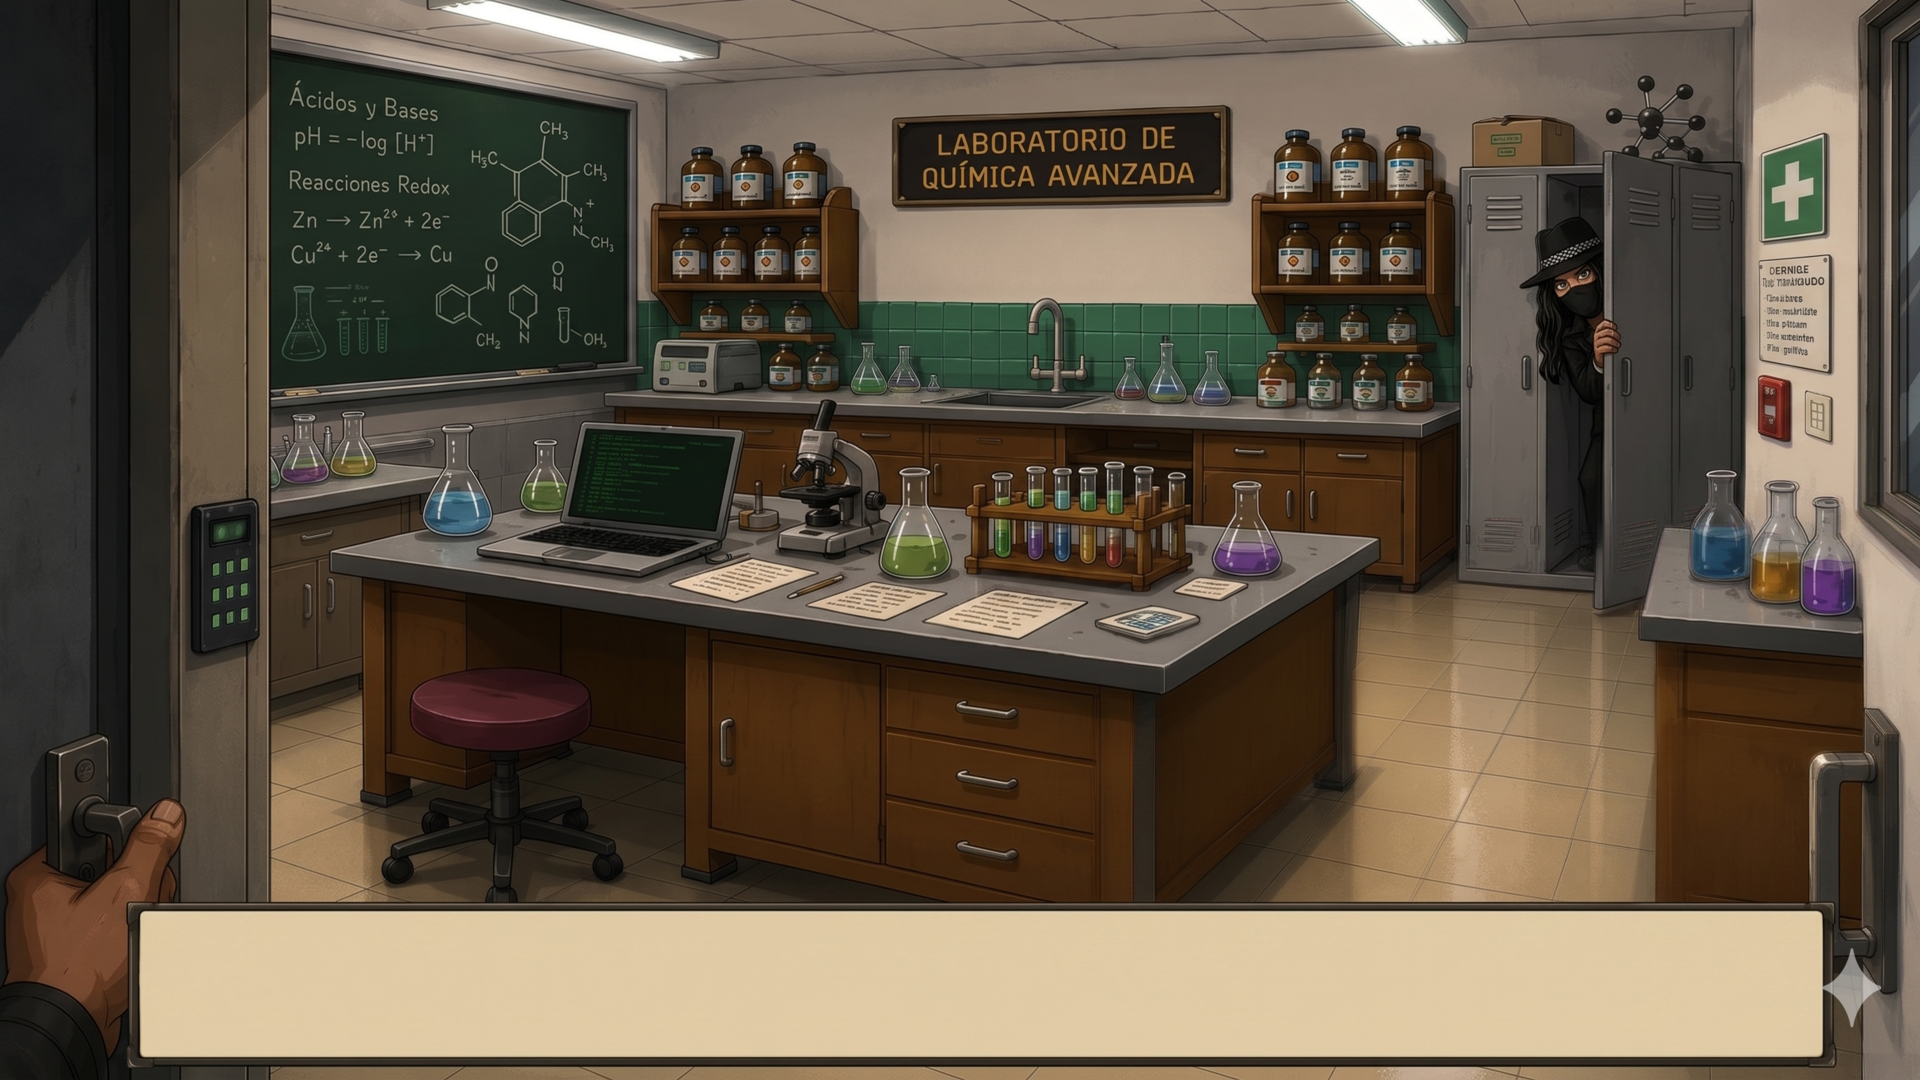
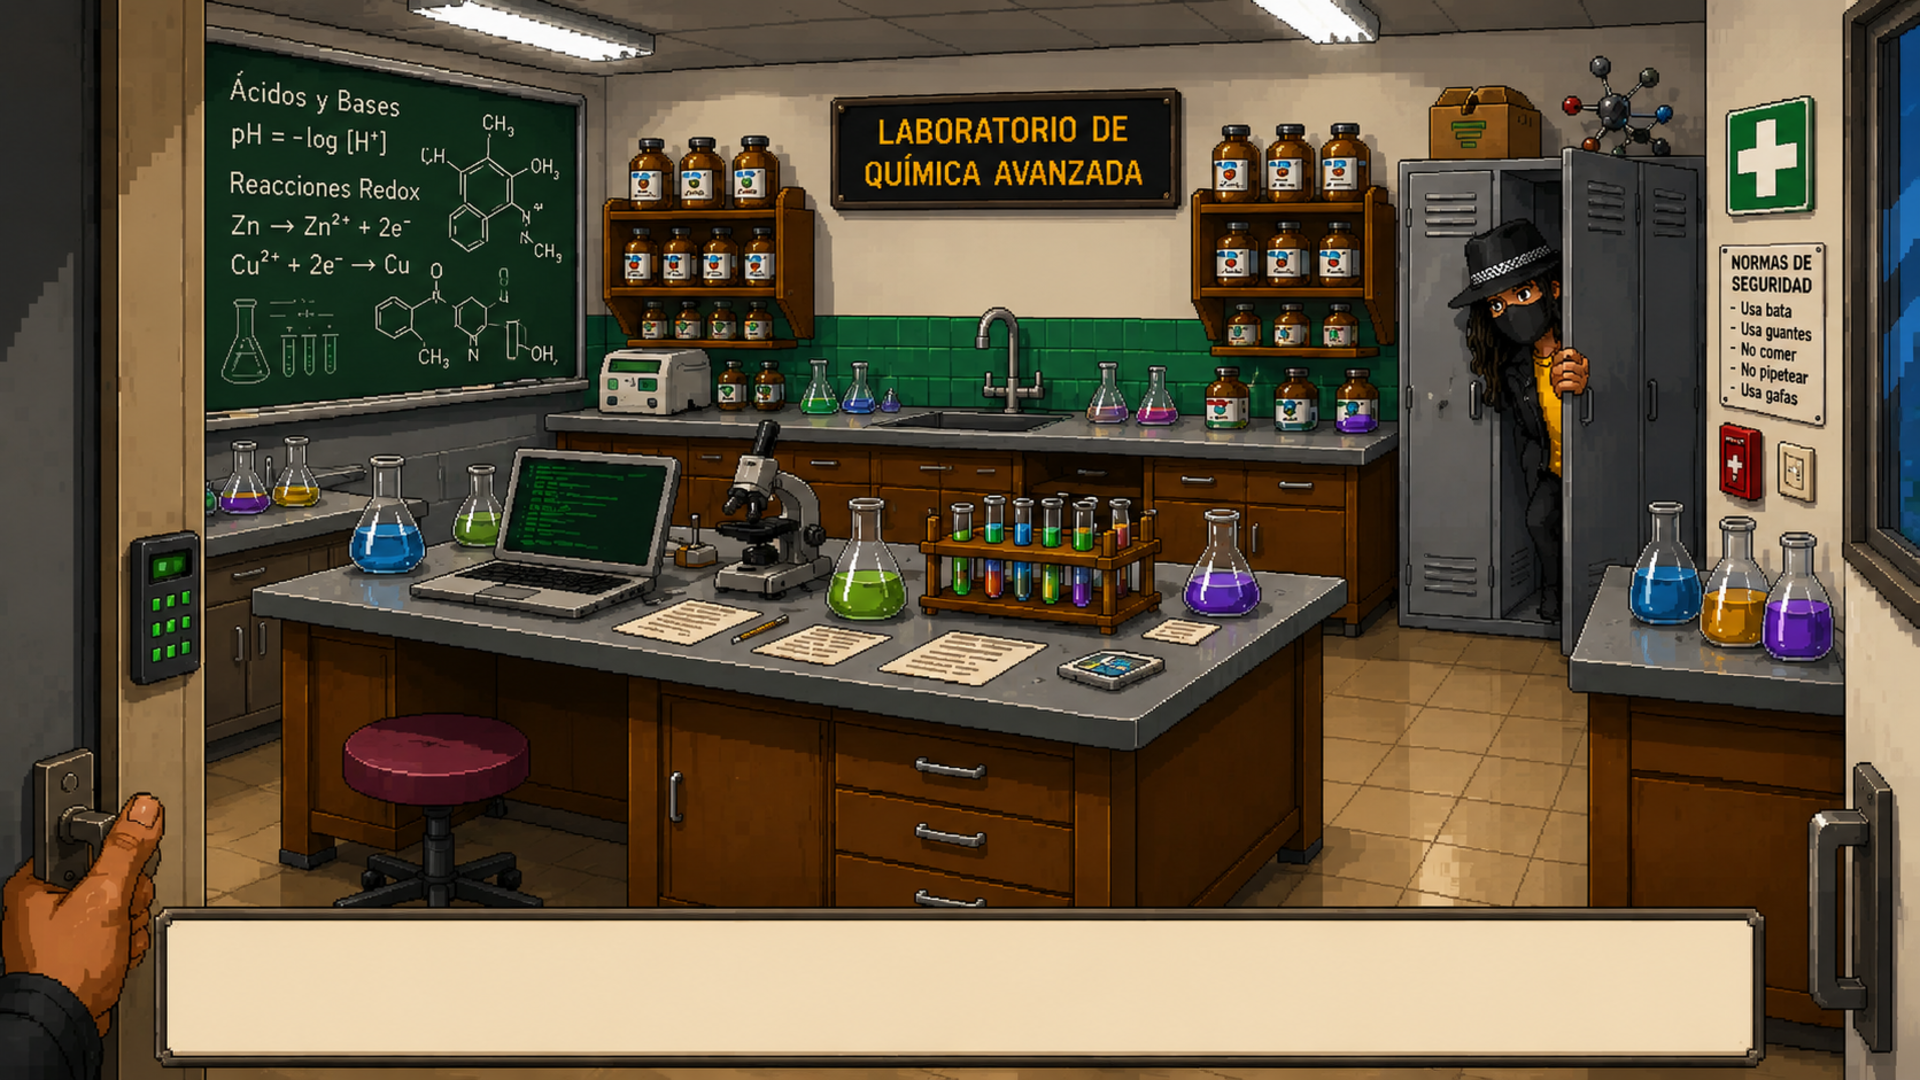
Update campaign 6/9

diff --git a/PolitecnicoOpenWorld/app/src/main/java/ovh/gabrielhuav/pow/features/main_menu/ui/StoryIntroScreen.kt b/PolitecnicoOpenWorld/app/src/main/java/ovh/gabrielhuav/pow/features/main_menu/ui/StoryIntroScreen.kt
@@ -167,6 +167,7 @@ fun StoryIntroScreen(
             "IntroPOW5.webp" -> {
                 soundManager.stopAllStorySounds()
                 soundManager.playStoryRunning(loop = true)
+                soundManager.playPuerquito()
             }
             "IntroPOW6.webp" -> {
                 soundManager.stopAllStorySounds()
@@ -212,12 +213,15 @@ fun StoryIntroScreen(
     var panelOffX by remember { mutableFloatStateOf(0f) }
     var panelOffY by remember { mutableFloatStateOf(0f) }
 
-    val image = remember(panel.assetPath) {
-        try {
-            context.assets.open(panel.assetPath).use {
-                android.graphics.BitmapFactory.decodeStream(it)?.asImageBitmap()
-            }
-        } catch (_: Exception) { null }
+    // SKIN: ciertos paneles del cómic (IntroPOW9/10/11/15) cambian según la skin elegida en
+    // "Cambiar Skin": por defecto IntroPOW9.webp (Lázaro/hombre); con la mujer IntroPOW9Girl.webp;
+    // con el robot IntroPOW9Robot.webp. El resto de paneles NO cambian. Si la variante no existe,
+    // cae al panel por defecto.
+    val comicSuffix = remember {
+        ovh.gabrielhuav.pow.data.repository.SettingsRepository(context).getPlayerSkin().comicSuffix
+    }
+    val image = remember(panel.assetPath, comicSuffix) {
+        loadComicPanel(context, panel.assetPath, comicSuffix)
     }
 
     BoxWithConstraints(modifier = Modifier.fillMaxSize().background(Color(0xFF0D0D11))) {
@@ -412,6 +416,37 @@ private fun PillButton(
             .clickable { onClick() }
             .padding(horizontal = 10.dp, vertical = 6.dp)
     )
+}
+
+// Paneles del cómic que CAMBIAN según la skin (Cambiar Skin). Para estos, si la skin tiene
+// `comicSuffix` (p. ej. "Girl"/"Robot"), se intenta primero IntroPOW9Girl.webp / IntroPOW9Robot.webp;
+// si no existe, se usa el panel por defecto (IntroPOW9.webp = Lázaro/hombre).
+private val SKIN_VARIANT_PANELS = setOf(
+    "STORY/INTRO/IntroPOW9.webp",
+    "STORY/INTRO/IntroPOW10.webp",
+    "STORY/INTRO/IntroPOW11.webp",
+    "STORY/INTRO/IntroPOW15.webp"
+)
+
+// Carga el bitmap del panel, eligiendo la variante de skin cuando aplica (con fallback al default).
+private fun loadComicPanel(
+    context: Context,
+    assetPath: String,
+    comicSuffix: String
+): androidx.compose.ui.graphics.ImageBitmap? {
+    val candidates = buildList {
+        if (comicSuffix.isNotEmpty() && assetPath in SKIN_VARIANT_PANELS) {
+            add(assetPath.removeSuffix(".webp") + comicSuffix + ".webp")   // variante de skin
+        }
+        add(assetPath)   // panel por defecto / fallback
+    }
+    for (path in candidates) {
+        val bmp = try {
+            context.assets.open(path).use { android.graphics.BitmapFactory.decodeStream(it)?.asImageBitmap() }
+        } catch (_: Exception) { null }
+        if (bmp != null) return bmp
+    }
+    return null
 }
 
 // Desenvuelve el Context (puede venir envuelto por LocaleHelper.wrap) hasta la Activity,

diff --git a/PolitecnicoOpenWorld/app/src/main/java/ovh/gabrielhuav/pow/domain/models/CampaignMission.kt b/PolitecnicoOpenWorld/app/src/main/java/ovh/gabrielhuav/pow/domain/models/CampaignMission.kt
@@ -24,32 +24,39 @@ object MissionCatalog {
         targetLon = -99.148900
     )
 
-    // Escolta: Prankedy te acompaña (fase HIRED) y debes llevarlo a la ESCOM (el "lugar seguro").
+    // PUERTA de la ESCOM (puerta norte, de WorldMapEscom.spawnEscomDoors). Es el destino de la
+    // Misión 1 y de donde sale la multitud al llegar. Compartida por los objetivos y la línea GPS.
+    const val ESCOM_DOOR_LAT = 19.50490
+    const val ESCOM_DOOR_LON = -99.14674
+
+    // Escolta: Prankedy te acompaña (fase HIRED) y debes llevarlo a la PUERTA de la ESCOM.
     // Solo se activa en campaña y en el vecindario de la ENCB (ver WorldMapPrankedy.maybeSpawnPrankedyCompanion).
-    // El destino es la ESCOM (mismo punto donde se oculta la línea GPS y para la música); al
-    // entrar en arriveRadiusMeters se marca cumplido.
+    // Al entrar en arriveRadiusMeters de la puerta se marca cumplido → dispara el cómic + la persecución.
+    // El destino REAL se ajusta en runtime a la PUERTA de la ESCOM más cercana (landmark
+    // DOORS/ESCOM_DOOR.webp) vía WorldMapCampaignPolice.syncObjectiveToEscomDoor. El radio es
+    // pequeño: basta con llegar y quedar AL LADO de la puerta (no hay que interactuar).
     val ESCOLTAR_PRANKEDY = CampaignObjective(
         id = "escoltar_prankedy",
-        title = "Lleva a Prankedy a la ESCOM",
-        description = "Protege a Prankedy y escóltalo hasta la ESCOM (lugar seguro).",
-        targetLat = 19.504603,
-        targetLon = -99.145985,
-        arriveRadiusMeters = 80.0
+        title = "Lleva a Prankedy a la puerta de la ESCOM",
+        description = "Protege a Prankedy y escóltalo hasta la PUERTA de la ESCOM.",
+        targetLat = ESCOM_DOOR_LAT,
+        targetLon = ESCOM_DOOR_LON,
+        arriveRadiusMeters = 12.0
     )
 
     // Misión 2: tras llegar a la ESCOM, te persiguen y debes INGRESAR a la ESCOM (entrar al
     // edificio). El destino es el centro de la ESCOM con un radio pequeño (al acercarte a la
     // entrada se cumple). Lo activa MainActivity tras el cómic IntroPOW12..14.
-    // Radio PEQUEÑO (20 m) y MENOR que el de ESCOLTAR_PRANKEDY (80 m): la Misión 1 se cumple
-    // al ACERCARTE a la ESCOM (80 m), así que al iniciar la Misión 2 sigues lejos de los 20 m y
-    // debes APROXIMARTE a la entrada (no se cumple sola).
+    // arriveRadiusMeters = 0 → NO se cumple por cercanía (si fuera por cercanía se cumpliría sola,
+    // porque ya estás en la puerta tras la Misión 1). Se cumple al INTERACTUAR/ENTRAR por la puerta
+    // de la ESCOM (lo marca WorldMapViewModel al disparar el fade de la puerta). Ver checkObjectiveProgress.
     val INGRESAR_ESCOM = CampaignObjective(
         id = "ingresar_escom",
         title = "Ingresa a la ESCOM",
-        description = "¡Te persiguen! Entra a la ESCOM para ponerte a salvo.",
-        targetLat = 19.504603,
-        targetLon = -99.145985,
-        arriveRadiusMeters = 20.0
+        description = "¡Te persiguen! Entra por la puerta de la ESCOM para ponerte a salvo.",
+        targetLat = ESCOM_DOOR_LAT,
+        targetLon = ESCOM_DOOR_LON,
+        arriveRadiusMeters = 0.0
     )
 
     private val all = listOf(IR_ENCB, ESCOLTAR_PRANKEDY, INGRESAR_ESCOM)

diff --git a/PolitecnicoOpenWorld/app/src/main/java/ovh/gabrielhuav/pow/features/map_exterior/viewmodel/WorldMapCampaignPolice.kt b/PolitecnicoOpenWorld/app/src/main/java/ovh/gabrielhuav/pow/features/map_exterior/viewmodel/WorldMapCampaignPolice.kt
@@ -32,6 +32,31 @@ private const val CROWD_SPEED = 0.0000016             // caminan despacio, hacia
 private const val CROWD_DESPAWN_DEG = 0.0009          // ~100 m: al salir de tu fog se eliminan
 private const val CROWD_SPAWN_OFFSET = 0.00006        // ~6 m de la puerta al aparecer
 
+// Apunta el objetivo (y por tanto el waypoint 🎯, la línea guía, la distancia del widget y la
+// llegada) a la PUERTA de la ESCOM REAL: el landmark `DOORS/ESCOM_DOOR.webp` más cercano colocado
+// con el Diseñador (donde el jugador interactúa para entrar). Si no hay puerta colocada, conserva
+// el destino configurado. Solo aplica a los objetivos de la ESCOM (escolta / ingresar).
+internal fun WorldMapViewModel.syncObjectiveToEscomDoor(playerLoc: GeoPoint) {
+    val obj = _uiState.value.currentObjective ?: return
+    if (obj.id != MissionCatalog.ESCOLTAR_PRANKEDY.id && obj.id != MissionCatalog.INGRESAR_ESCOM.id) return
+    // Puertas de la ESCOM: landmarks colocados con el Diseñador (DOORS/ESCOM_DOOR.webp) +
+    // las puertas placeholder de spawnEscomDoors (escom_door_*). Estas son donde el jugador
+    // interactúa para entrar; el objetivo apunta a la MÁS CERCANA.
+    val doorLocs = ArrayList<GeoPoint>()
+    _uiState.value.landmarks.filter { it.assetPath == ESCOM_DOOR_ASSET }.forEach { doorLocs.add(it.location) }
+    _escomItems.value.filter { it.id.startsWith("escom_door_") }.forEach { doorLocs.add(GeoPoint(it.latitude, it.longitude)) }
+    if (doorLocs.isEmpty()) return
+    val nearest = doorLocs.minByOrNull {
+        val dLat = it.latitude - playerLoc.latitude
+        val dLon = it.longitude - playerLoc.longitude
+        dLat * dLat + dLon * dLon
+    } ?: return
+    if (kotlin.math.abs(obj.targetLat - nearest.latitude) > 1e-6 ||
+        kotlin.math.abs(obj.targetLon - nearest.longitude) > 1e-6) {
+        _uiState.update { it.copy(currentObjective = obj.copy(targetLat = nearest.latitude, targetLon = nearest.longitude)) }
+    }
+}
+
 internal fun WorldMapViewModel.isCampaignEscortActive(): Boolean {
     if (!inCampaign) return false
     val obj = _uiState.value.currentObjective ?: return false

diff --git a/PolitecnicoOpenWorld/app/src/main/java/ovh/gabrielhuav/pow/features/map_exterior/ui/NativeOsmMap.kt b/PolitecnicoOpenWorld/app/src/main/java/ovh/gabrielhuav/pow/features/map_exterior/ui/NativeOsmMap.kt
@@ -1372,8 +1372,10 @@ internal fun NativeOsmMap(
             }
 
             // ─── WAYPOINT DEL OBJETIVO (Modo Historia) ───────────────────────────
-            // Marca el destino del objetivo de campaña con un 🎯 (además del camino rojo).
+            // Marca el destino del objetivo con un 🎯 Y una LÍNEA jugador→objetivo (te indica
+            // a DÓNDE IR aunque el destino esté fuera de pantalla), además del camino rojo.
             val objWpTag = ovh.gabrielhuav.pow.R.id.route_overlay_tag + 760
+            val objLineTag = ovh.gabrielhuav.pow.R.id.route_overlay_tag + 761
             val objMarker = (view.getTag(objWpTag) as? Marker) ?: Marker(view).apply {
                 setAnchor(Marker.ANCHOR_CENTER, Marker.ANCHOR_BOTTOM)
                 setInfoWindow(null)
@@ -1382,14 +1384,31 @@ internal fun NativeOsmMap(
                 view.setTag(objWpTag, this)
                 view.overlays.add(this)
             }
+            val objLine = (view.getTag(objLineTag) as? Polyline) ?: Polyline().apply {
+                outlinePaint.color = android.graphics.Color.argb(170, 255, 193, 7) // ámbar
+                outlinePaint.strokeWidth = 7f
+                outlinePaint.isAntiAlias = true
+                outlinePaint.style = android.graphics.Paint.Style.STROKE
+                outlinePaint.pathEffect = android.graphics.DashPathEffect(floatArrayOf(22f, 16f), 0f)
+                setInfoWindow(null)
+                view.setTag(objLineTag, this)
+                view.overlays.add(0, this) // bajo los marcadores
+            }
             val campObj = uiState.currentObjective
+            val campPlayer = uiState.currentLocation
             if (campObj != null && !uiState.objectiveDone) {
-                objMarker.position = GeoPoint(campObj.targetLat, campObj.targetLon)
+                val target = GeoPoint(campObj.targetLat, campObj.targetLon)
+                objMarker.position = target
                 objMarker.isEnabled = true
                 objMarker.setAlpha(0.9f)
+                if (campPlayer != null) {
+                    objLine.setPoints(listOf(GeoPoint(campPlayer.latitude, campPlayer.longitude), target))
+                    objLine.isEnabled = true
+                }
             } else {
                 objMarker.isEnabled = false
                 objMarker.setAlpha(0f)
+                objLine.isEnabled = false
             }
 
             // ─── PRANKEDY: renderizado siempre en capa superior (tras la niebla) ──

diff --git a/PolitecnicoOpenWorld/app/src/main/java/ovh/gabrielhuav/pow/features/audio/SoundManager.kt b/PolitecnicoOpenWorld/app/src/main/java/ovh/gabrielhuav/pow/features/audio/SoundManager.kt
@@ -37,6 +37,8 @@ class SoundManager private constructor(context: Context) {
     private var queTeTraesSoundId = -1
     private var contestameSoundId = -1
     private var paraleSoundId = -1
+    private var puerquitoSoundId = -1        // SFX en IntroPOW5 del cómic
+    private var misionCumplidaSoundId = -1   // jingle al cumplir la misión
 
     private var walkStreamId = -1
     private var runStreamId = -1
@@ -83,6 +85,9 @@ class SoundManager private constructor(context: Context) {
             queTeTraesSoundId = soundPool?.load(assetManager.openFd("sonidos/que te traes.m4a"), 1) ?: -1
             contestameSoundId = soundPool?.load(assetManager.openFd("sonidos/contestame.m4a"), 1) ?: -1
             paraleSoundId = soundPool?.load(assetManager.openFd("sonidos/parale.m4a"), 1) ?: -1
+            // SFX del cómic (IntroPOW5) y jingle de misión cumplida.
+            puerquitoSoundId = soundPool?.load(assetManager.openFd("sonidos/AudiosViñetas/Puerquito.mp3"), 1) ?: -1
+            misionCumplidaSoundId = soundPool?.load(assetManager.openFd("sonidos/MisionCumplida.mp3"), 1) ?: -1
         } catch (e: Exception) {
             Log.e("SoundManager", "Error loading sounds", e)
         }
@@ -263,6 +268,17 @@ class SoundManager private constructor(context: Context) {
     fun playParale() {
         val streamId = soundPool?.play(paraleSoundId, 1f, 1f, 1, 0, 1f) ?: -1
         if (streamId != -1) storyStreamIds.add(streamId)
+    }
+
+    // SFX del panel IntroPOW5 del cómic (se detiene con stopAllStorySounds al cambiar de panel).
+    fun playPuerquito() {
+        val streamId = soundPool?.play(puerquitoSoundId, 1f, 1f, 1, 0, 1f) ?: -1
+        if (streamId != -1) storyStreamIds.add(streamId)
+    }
+
+    // Jingle al CUMPLIR la misión (no es del cómic: no se registra en storyStreamIds).
+    fun playMisionCumplida() {
+        soundPool?.play(misionCumplidaSoundId, 1f, 1f, 1, 0, 1f)
     }
 
     fun stopAllStorySounds() {

diff --git a/PolitecnicoOpenWorld/app/src/main/java/ovh/gabrielhuav/pow/features/map_exterior/ui/components/PlayerSkin.kt b/PolitecnicoOpenWorld/app/src/main/java/ovh/gabrielhuav/pow/features/map_exterior/ui/components/PlayerSkin.kt
@@ -24,7 +24,13 @@ enum class PlayerSkin(
     val runFrames: Int = 25,
     val specialFrames: Int = 25,
     /** Ruta al sprite de previsualización (idle frame 1) */
-    val previewAsset: String = "MAIN/${skinFolder}Idle/${skinPrefix}i_1.webp"
+    val previewAsset: String = "MAIN/${skinFolder}Idle/${skinPrefix}i_1.webp",
+    /**
+     * Sufijo del cómic del Modo Historia para los paneles que cambian según la skin
+     * (IntroPOW9/10/11/15). "" = panel por defecto (Lázaro/hombre). Ej.: con "Girl" se usa
+     * `IntroPOW9Girl.webp`; con "Robot" se usa `IntroPOW9Robot.webp`. Ver StoryIntroScreen.
+     */
+    val comicSuffix: String = ""
 ) {
     LAZARO(
         displayName = "Lázaro",
@@ -32,7 +38,8 @@ enum class PlayerSkin(
         skinPrefix  = "lazaro_",
         idleFrames   = 6,   // tienes 6
         walkFrames   = 6,   // tienes 6
-        specialFrames = 8   // tienes 8
+        specialFrames = 8,  // tienes 8
+        comicSuffix = ""    // panel por defecto (hombre)
     ),
 
     escomgirl(
@@ -42,12 +49,14 @@ enum class PlayerSkin(
         idleFrames   = 6,   // tienes 6
         walkFrames   = 5,   // tienes 5
         runFrames    = 4,   // tienes 4
-        specialFrames = 6   // tienes 6
+        specialFrames = 6,  // tienes 6
+        comicSuffix = "Girl"
     ),
     robot(
         displayName = "Robot Estudiantx",
         skinFolder  = "robot",
         skinPrefix  = "robot_",
+        comicSuffix = "Robot"
     ),
     // ── Agrega aquí nuevas skins ──────────────────────────────────────────
     // Ejemplo con una skin "Ana":

diff --git a/PolitecnicoOpenWorld/app/src/main/java/ovh/gabrielhuav/pow/features/map_exterior/ui/WorldMapLeafletHtml.kt b/PolitecnicoOpenWorld/app/src/main/java/ovh/gabrielhuav/pow/features/map_exterior/ui/WorldMapLeafletHtml.kt
@@ -544,15 +544,22 @@ internal fun buildHtml(lat: Double, lng: Double, zoom: Int): String = """
         }
         // ─── WAYPOINT DEL OBJETIVO (Modo Historia) ──────────────────────────────────
         // Marca el destino del objetivo de campaña con un 🎯 (además del camino rojo).
-        function updateObjectiveWp(lat, lng) {
+        function updateObjectiveWp(playerLat, playerLng, lat, lng) {
             if (lat === null || lat === undefined) {
                 if (window.__objWp) { map.removeLayer(window.__objWp); window.__objWp = null; }
+                if (window.__objLine) { map.removeLayer(window.__objLine); window.__objLine = null; }
                 return;
             }
             if (window.__objWp) { window.__objWp.setLatLng([lat, lng]); }
             else {
                 var icon = L.divIcon({ html: '<div style="font-size:28px; transform:translate(-50%,-50%);">🎯</div>', className: '', iconSize: [0,0] });
                 window.__objWp = L.marker([lat, lng], { icon: icon, interactive: false, zIndexOffset: 850 }).addTo(map);
+            }
+            // Línea jugador→objetivo: te indica a DÓNDE IR aunque el destino esté fuera de pantalla.
+            var pts = [[playerLat, playerLng], [lat, lng]];
+            if (window.__objLine) { window.__objLine.setLatLngs(pts); }
+            else {
+                window.__objLine = L.polyline(pts, { color: '#FFC107', weight: 4, opacity: 0.65, dashArray: '22, 16', interactive: false }).addTo(map);
             }
         }
         // ─── WAYPOINTS DE ZOMBIS (fuera del fog, modo apocalipsis) ──────────────────

diff --git a/PolitecnicoOpenWorld/app/src/main/java/ovh/gabrielhuav/pow/features/map_exterior/ui/WorldMapScreen.kt b/PolitecnicoOpenWorld/app/src/main/java/ovh/gabrielhuav/pow/features/map_exterior/ui/WorldMapScreen.kt
@@ -1362,12 +1362,13 @@ fun WorldMapScreen(
                             wv.evaluateJavascript("if(typeof updatePolice==='function')updatePolice(${plocW?.latitude ?: 0.0}, ${plocW?.longitude ?: 0.0}, ${gson.toJson(policePayload)});", null)
                         }
 
-                        // Waypoint del OBJETIVO de campaña (🎯) en el destino, además del camino rojo.
+                        // Waypoint del OBJETIVO (🎯) + línea jugador→objetivo (te indica a dónde ir).
                         val campObjW = uiState.currentObjective
-                        if (campObjW != null && !uiState.objectiveDone) {
-                            wv.evaluateJavascript("if(typeof updateObjectiveWp==='function')updateObjectiveWp(${campObjW.targetLat}, ${campObjW.targetLon});", null)
+                        val campPlocW = uiState.currentLocation
+                        if (campObjW != null && !uiState.objectiveDone && campPlocW != null) {
+                            wv.evaluateJavascript("if(typeof updateObjectiveWp==='function')updateObjectiveWp(${campPlocW.latitude}, ${campPlocW.longitude}, ${campObjW.targetLat}, ${campObjW.targetLon});", null)
                         } else {
-                            wv.evaluateJavascript("if(typeof updateObjectiveWp==='function')updateObjectiveWp(null,null);", null)
+                            wv.evaluateJavascript("if(typeof updateObjectiveWp==='function')updateObjectiveWp(null,null,null,null);", null)
                         }
 
                         // Waypoints de ZOMBIS FUERA del fog (paridad con OSM nativo): 🧟 + línea

diff --git a/PolitecnicoOpenWorld/app/src/main/java/ovh/gabrielhuav/pow/features/map_exterior/viewmodel/WorldMapViewModel.kt b/PolitecnicoOpenWorld/app/src/main/java/ovh/gabrielhuav/pow/features/map_exterior/viewmodel/WorldMapViewModel.kt
@@ -653,6 +653,8 @@ class WorldMapViewModel(
                         // búsqueda del mundo libre, para que no choquen. Fuera de la escolta corre
                         // la policía normal del mundo libre. Al terminar la escolta (o salir de la
                         // campaña) se limpia la policía de campaña.
+                        // El objetivo de la ESCOM apunta a la PUERTA real (landmark) más cercana.
+                        if (isCampaignEscortActive() || isMission2ChaseActive()) syncObjectiveToEscomDoor(location)
                         when {
                             // MISIÓN 1: escolta (2 a pie, te siguen a distancia).
                             isCampaignEscortActive() -> {
@@ -2671,6 +2673,13 @@ class WorldMapViewModel(
                     n.contains("FES", ignoreCase = true) -> "interiores_zombies?startRoom=fes_interior"
                     // Puertas ESCOM (Norte/Sur, etc.) → lobby de ESCOM (sin arg = default).
                     else -> "interiores_zombies"
+                }
+                // MODO HISTORIA · Misión 2 "Ingresa a la ESCOM": se cumple al ENTRAR por la puerta
+                // (este es el momento de "ingresar"). Marca el objetivo cumplido + jingle.
+                if (_uiState.value.currentObjective?.id == ovh.gabrielhuav.pow.domain.models.MissionCatalog.INGRESAR_ESCOM.id
+                    && !_uiState.value.objectiveDone) {
+                    _uiState.update { it.copy(objectiveDone = true, interactionPrompt = "✅ Objetivo cumplido: ${_uiState.value.currentObjective?.title ?: ""}") }
+                    soundManager.playMisionCumplida()
                 }
                 _uiState.update { it.copy(showEscomDoorFade = true, pendingDoorDestination = targetRoute) }
             }

diff --git a/PolitecnicoOpenWorld/app/src/main/java/ovh/gabrielhuav/pow/domain/models/ai/CampaignEscortPolice.kt b/PolitecnicoOpenWorld/app/src/main/java/ovh/gabrielhuav/pow/domain/models/ai/CampaignEscortPolice.kt
@@ -30,10 +30,10 @@ class CampaignEscortPolice {
 
     companion object {
         const val COP_COUNT = 2
-        const val SPAWN_BEHIND = 0.00085    // ~94 m: aparecen DETRÁS, fuera de la niebla
-        const val FOLLOW_DISTANCE = 0.00068 // ~76 m: distancia considerable (un poco más cerca; > niebla 70 m → sigue como waypoint)
-        const val RESUME_BAND = 0.00015     // ~17 m de histéresis: evita el tembleque en el borde
-        const val COP_SPEED = 0.0000030     // por tick: a pie y LENTOS (no te alcanzan corriendo)
+        const val SPAWN_BEHIND = 0.0005     // ~55 m: aparecen DETRÁS, cerca y visibles
+        const val FOLLOW_DISTANCE = 0.0004  // ~45 m: te siguen DE CERCA (visibles como sprite, no tan lejos)
+        const val RESUME_BAND = 0.00012     // ~13 m de histéresis: evita el tembleque en el borde
+        const val COP_SPEED = 0.0000032     // por tick: a pie y lentos (no te alcanzan corriendo)
 
         // ─── MISIÓN 2 (persecución) ──────────────────────────────────────────
         const val CHASE_SPEED = 0.0000050   // más rápido que la escolta (presionan), pero escapable a pie

diff --git a/PolitecnicoOpenWorld/app/src/main/java/ovh/gabrielhuav/pow/features/map_exterior/viewmodel/WorldMapPrankedy.kt b/PolitecnicoOpenWorld/app/src/main/java/ovh/gabrielhuav/pow/features/map_exterior/viewmodel/WorldMapPrankedy.kt
@@ -23,9 +23,10 @@ private const val ENCB_LON = -99.1450298
 // prematuramente si el game loop del mundo corre con location=ESCOM antes del outro.
 private const val ENCB_NEIGHBORHOOD_DEG = 0.002
 
-// Destino "lugar seguro" de la misión = ESCOM. La línea GPS roja va de la ENCB a aquí.
-private const val ESCOM_LAT = 19.504603
-private const val ESCOM_LON = -99.145985
+// Destino de la misión = PUERTA de la ESCOM (puerta norte). La línea GPS roja va de la ENCB
+// a la puerta (mismo punto que el objetivo ESCOLTAR_PRANKEDY).
+private const val ESCOM_LAT = ovh.gabrielhuav.pow.domain.models.MissionCatalog.ESCOM_DOOR_LAT
+private const val ESCOM_LON = ovh.gabrielhuav.pow.domain.models.MissionCatalog.ESCOM_DOOR_LON
 private const val ESCOM_ARRIVE_DEG = 0.0009   // ~100 m: al entrar, la línea GPS desaparece
 
 /**

diff --git a/PolitecnicoOpenWorld/app/src/main/java/ovh/gabrielhuav/pow/features/map_exterior/viewmodel/WorldMapSaveGame.kt b/PolitecnicoOpenWorld/app/src/main/java/ovh/gabrielhuav/pow/features/map_exterior/viewmodel/WorldMapSaveGame.kt
@@ -147,8 +147,10 @@ fun WorldMapViewModel.checkObjectiveProgress(location: GeoPoint) {
     val dist = kotlin.math.sqrt(mLat * mLat + mLon * mLon)
     if (dist <= obj.arriveRadiusMeters) {
         _uiState.update { it.copy(objectiveDone = true, interactionPrompt = "✅ Objetivo cumplido: ${obj.title}") }
-        // MISIÓN 1 cumplida (llegaste a la ESCOM con Prankedy) → dispara el cómic IntroPOW12..14
-        // (MainActivity lo reproduce) y, al volver, arranca la persecución de la Misión 2.
+        // Jingle de "misión cumplida".
+        soundManager.playMisionCumplida()
+        // MISIÓN 1 cumplida (llegaste a la PUERTA de la ESCOM con Prankedy) → dispara el cómic
+        // IntroPOW12..14 (MainActivity) y, al volver, arranca la persecución de la Misión 2.
         if (obj.id == MissionCatalog.ESCOLTAR_PRANKEDY.id) {
             _uiState.update { it.copy(pendingMission2Intro = true) }
         }